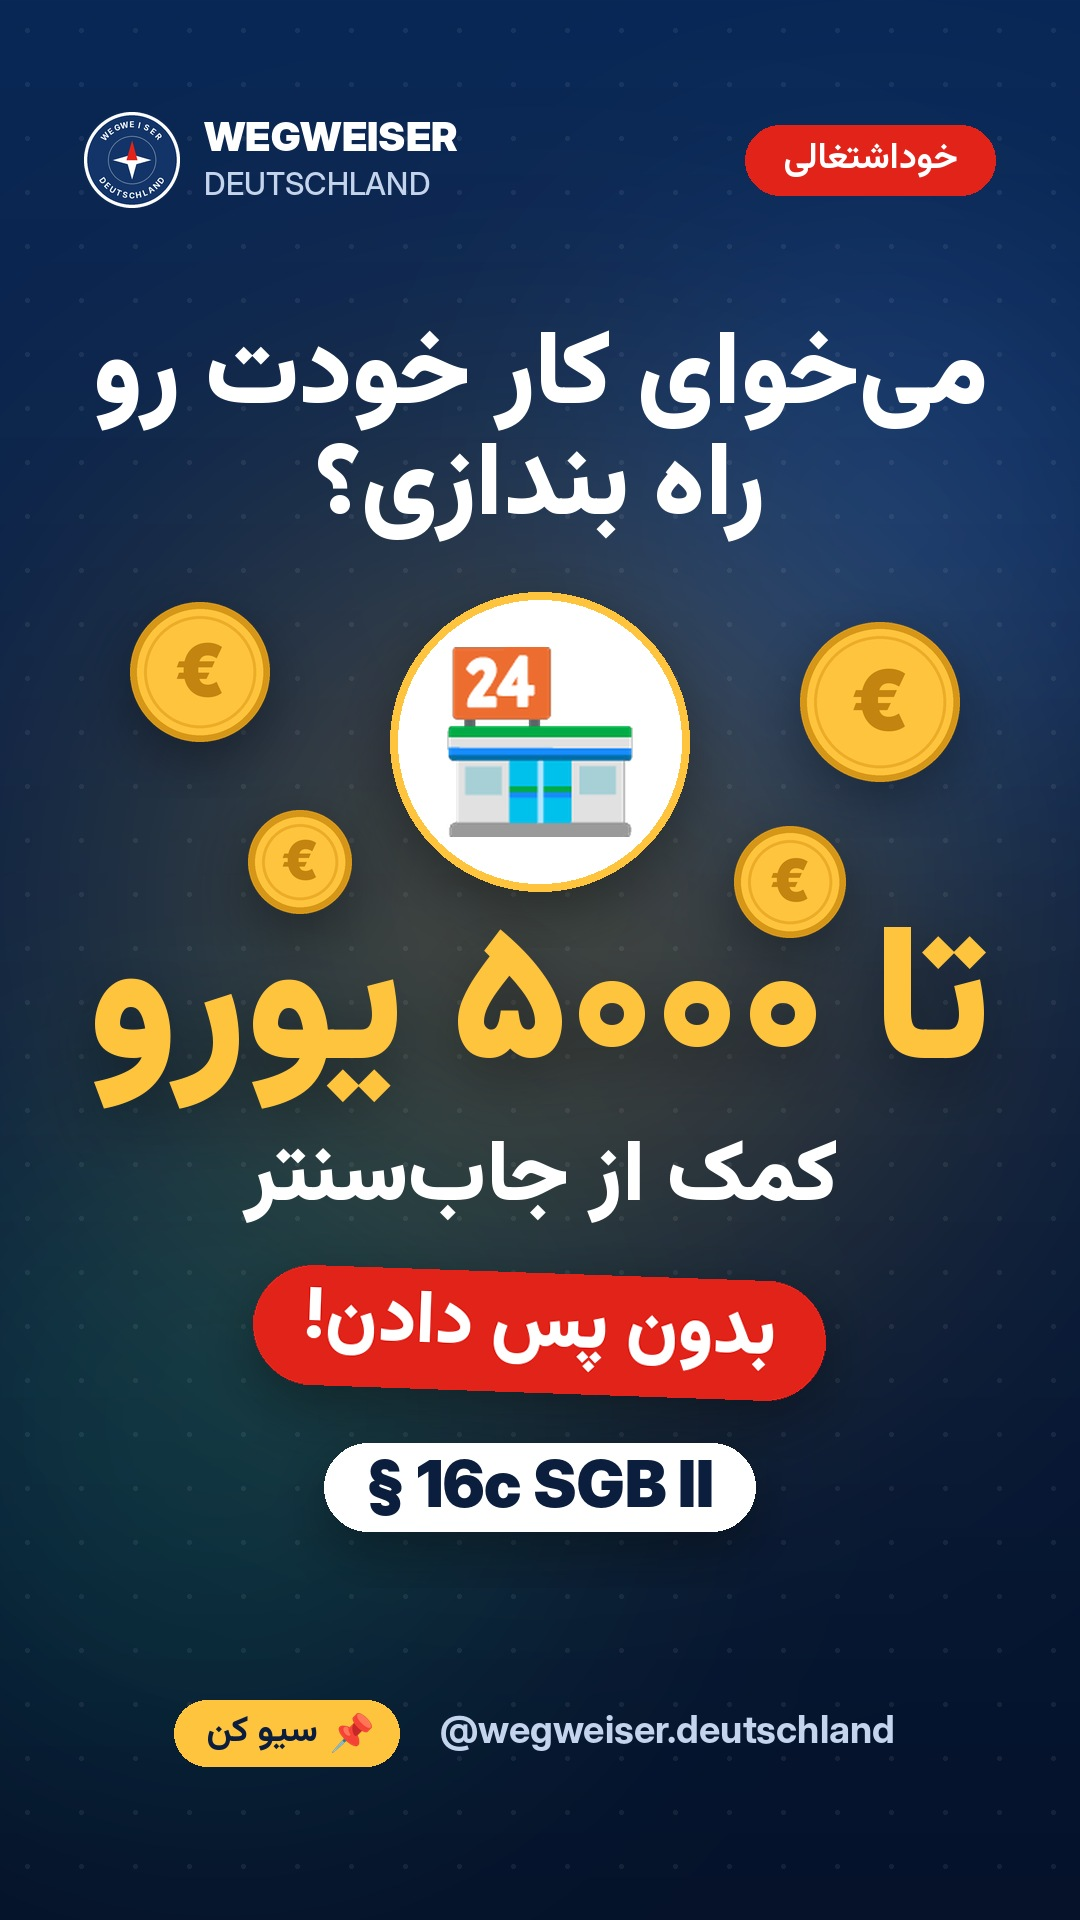
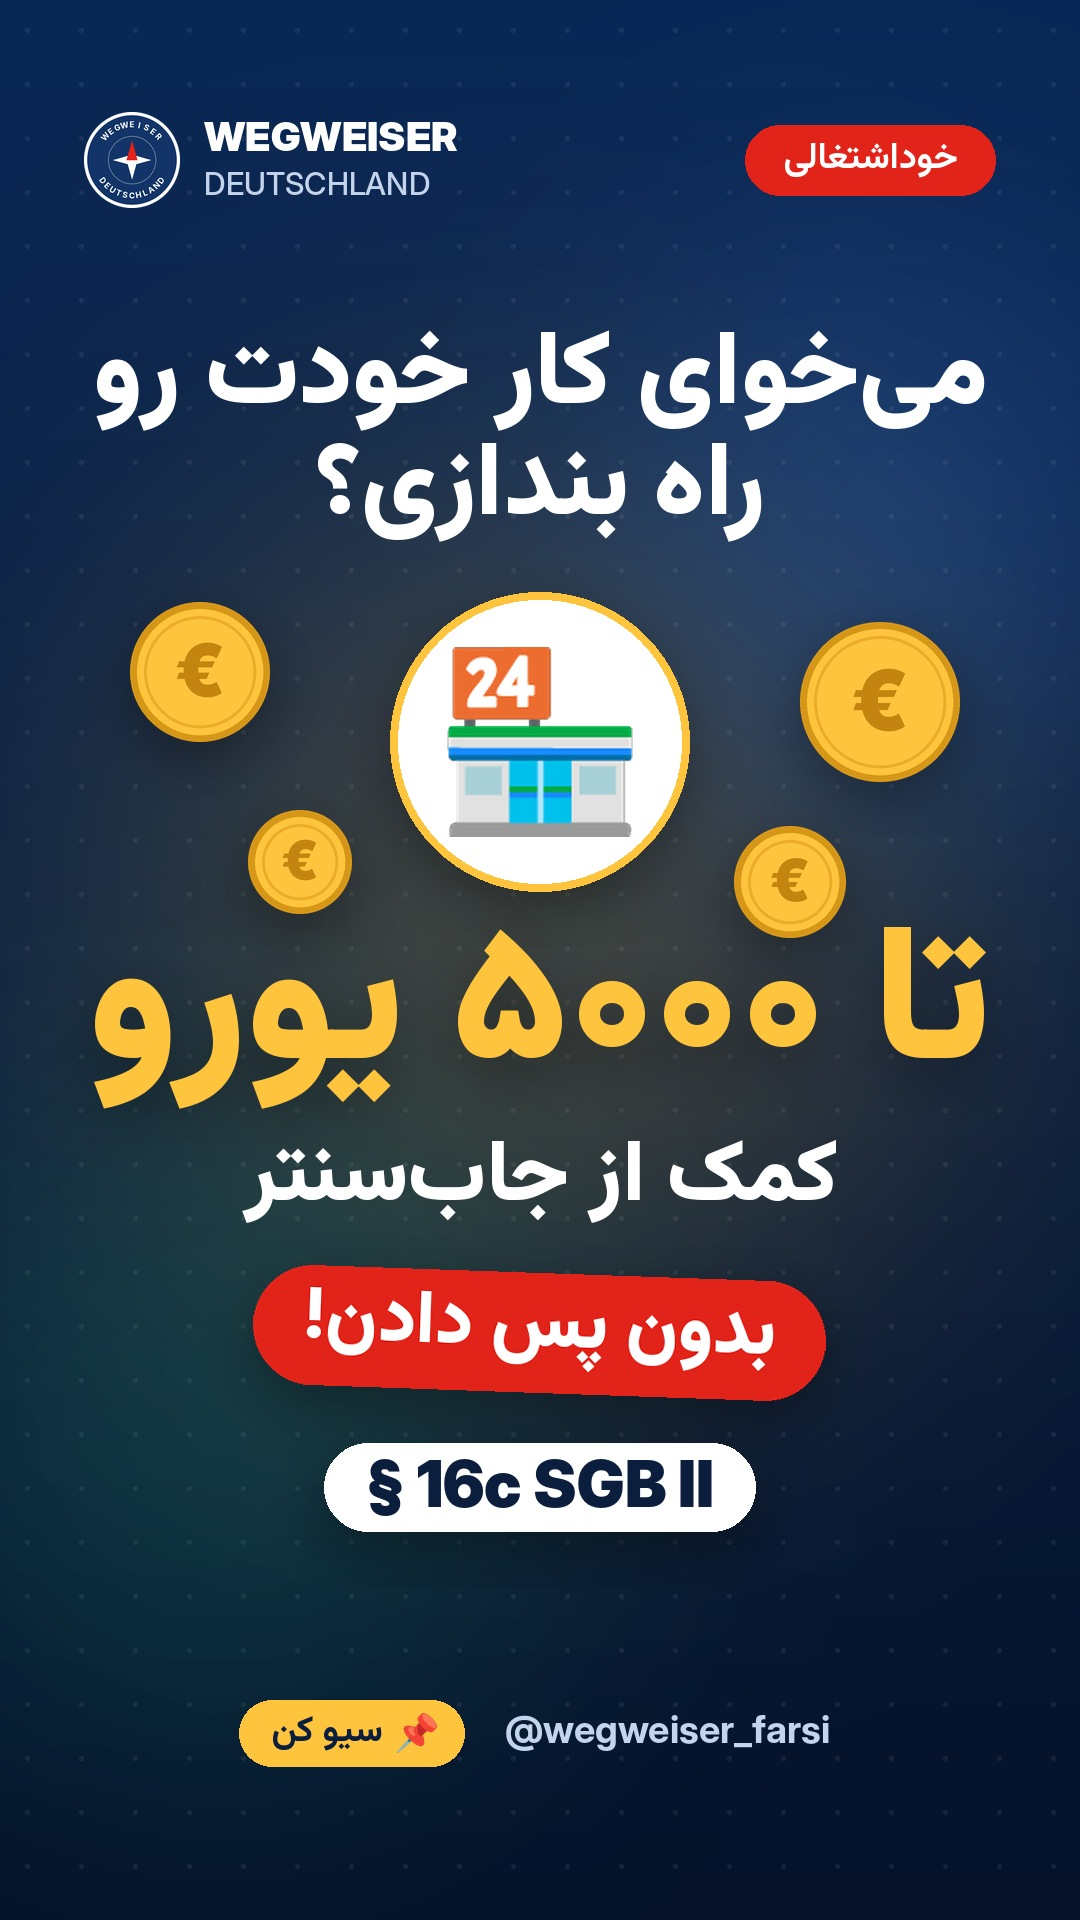
Cover v2: @wegweiser_farsi handle on 16c, Schwanger-Hilfe, Untaetigkeitsklage
Claude-Session: https://claude.ai/code/session_01HV4etYzCemQMuaGEznQiMv

Changed region(s): [[0.1528, 0.875, 0.6417, 0.9375], [0.6722, 0.875, 0.825, 0.9062]]

diff --git a/archive/fa/kit/fa_covers.py b/archive/fa/kit/fa_covers.py
@@ -676,7 +676,7 @@ def c_umzug_duldung():
 # ======================= § 16c SGB II (Selbstständigkeit) =======================
 def c_16c():
     c = background([(540, 900, 420, GOLD, 65), (220, 1420, 320, GREEN, 45), (880, 520, 280, BLUE, 55)])
-    frame(c, "خوداشتغالی")
+    frame(c, "خوداشتغالی", handle="@wegweiser_farsi")
     y = 320
     y = place(c, F("میخوای کار خودت رو", "Black", 960, 104, WHITE), 540, y) - 8
     y = place(c, F("راه بندازی؟", "Black", 960, 104, WHITE), 540, y) + 40
@@ -695,7 +695,7 @@ def c_16c():
 # ======================= Schwangerschaft: Bundesstiftung Mutter und Kind =======================
 def c_schwanger():
     c = background([(540, 860, 420, GOLD, 60), (220, 1380, 320, RED, 45), (870, 520, 280, BLUE, 55)])
-    frame(c, "کمک برای زن باردار")
+    frame(c, "کمک برای زن باردار", handle="@wegweiser_farsi")
     y = 300
     y = place(c, F("بارداری و پولت کمه؟", "Black", 960, 104, WHITE), 540, y) + 2
     y = place(c, F("این کمک رو پس نمیدی!", "Black", 960, 96, GOLD), 540, y, sh=True) + 30
@@ -725,7 +725,7 @@ def c_schwanger():
 # ======================= Untätigkeitsklage (§ 75 VwGO) =======================
 def c_untaetigkeit():
     c = background([(540, 900, 420, GOLD, 60), (220, 1420, 320, GREEN, 45), (870, 520, 280, BLUE, 55)])
-    frame(c, "اداره جواب نمیده")
+    frame(c, "اداره جواب نمیده", handle="@wegweiser_farsi")
     y = 300
     y = place(c, F("ماههاست منتظر", "Black", 960, 112, WHITE), 540, y) - 8
     y = place(c, F("جواب ادارهای؟", "Black", 960, 112, GOLD), 540, y, sh=True) + 36
